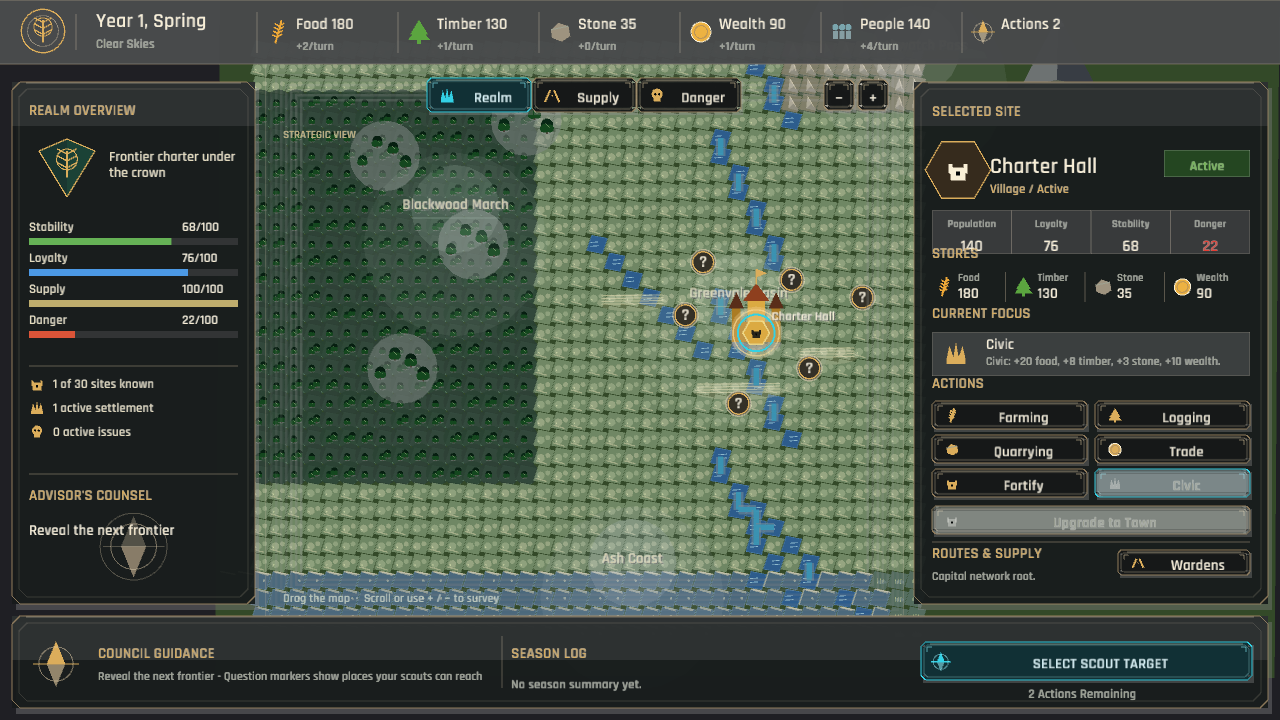
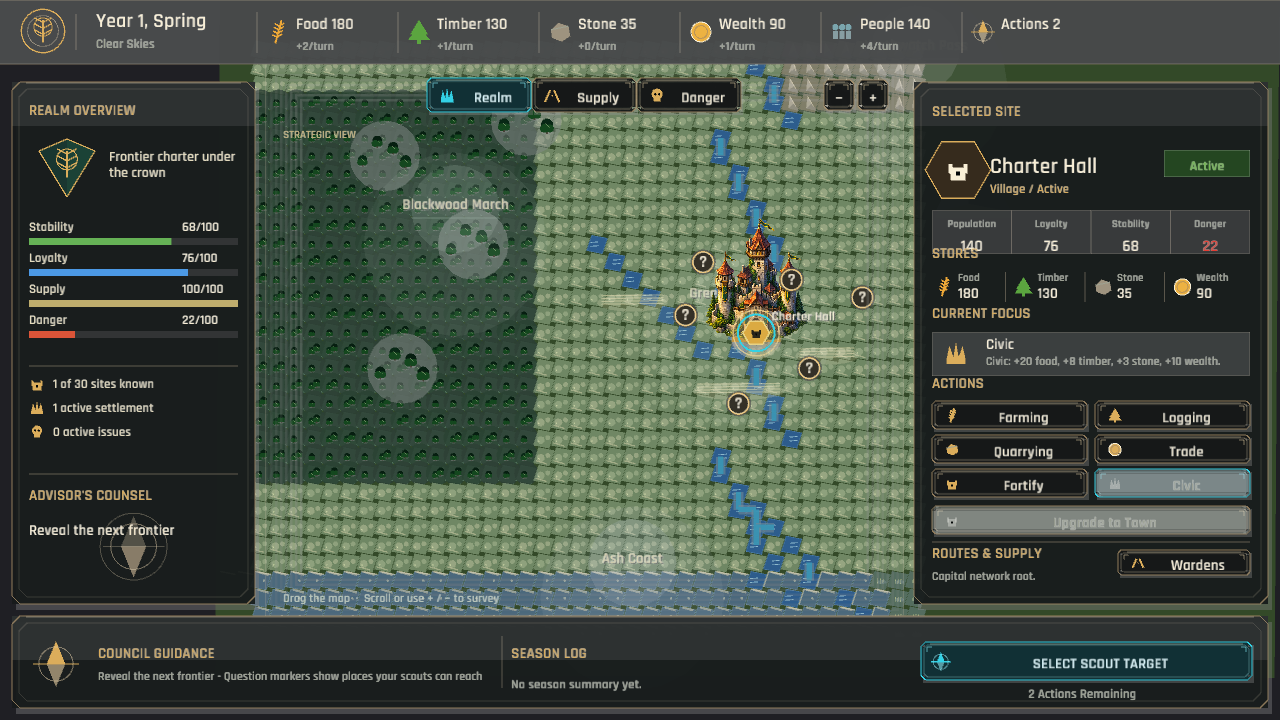
The realm's landmarks rise above the charter roads (GDD 6 overworld sprite integration)
The map had readable terrain but its settlements and points of interest still read as small procedural symbols. Four transparent landmark sprites now give the capital keep, frontier village, ruin watchtower, and crystal outcrop distinct silhouettes at the close strategic scale.

The textures are registered through the shared asset manifest, layered over the existing procedural foundations, and given enlarged hit regions so the art improves both recognition and touch selection. The capture-only sprite showcase reveals the full site set for visual verification without changing a fresh campaign's discovery rules.

Verified with cargo test (27 passed), git diff --check, the Rust source-size test, capture_ui.ps1 for gameplay and sprite_showcase, and publish.ps1 through Windows/WebGL packaging and Preview deployment.

diff --git a/src/ui/map_site_sprites.rs b/src/ui/map_site_sprites.rs
@@ -1,0 +1,77 @@
+//! Textured landmark sprites layered over the strategic map silhouettes.
+
+use super::map_sites::MarkerKind;
+use super::{MapSpriteTextures, UiContext};
+use crate::data::SiteDef;
+use macroquad::prelude::*;
+
+#[derive(Clone, Copy)]
+struct SpriteSpec<'a> {
+    texture: &'a Texture2D,
+    width: f32,
+    height: f32,
+    anchor: f32,
+}
+
+pub(super) fn draw_site_sprite(
+    ctx: &UiContext<'_>,
+    site: &SiteDef,
+    kind: MarkerKind,
+    position: Vec2,
+    scale: f32,
+) -> bool {
+    let Some(spec) = sprite_spec(&ctx.sprites, site, kind) else {
+        return false;
+    };
+
+    let width = spec.width * scale;
+    let height = spec.height * scale;
+    draw_texture_ex(
+        spec.texture,
+        position.x - width * 0.5,
+        position.y + 7.0 * scale - height * spec.anchor,
+        WHITE,
+        DrawTextureParams {
+            dest_size: Some(vec2(width, height)),
+            ..Default::default()
+        },
+    );
+    true
+}
+
+pub(super) fn hit_radius(
+    textures: &MapSpriteTextures<'_>,
+    site: &SiteDef,
+    kind: MarkerKind,
+    scale: f32,
+    marker_radius: f32,
+) -> f32 {
+    let Some(spec) = sprite_spec(textures, site, kind) else {
+        return marker_radius * scale + 9.0;
+    };
+    (spec.width.max(spec.height) * scale * 0.42).max(marker_radius * scale) + 10.0
+}
+
+fn sprite_spec<'a>(
+    textures: &MapSpriteTextures<'a>,
+    site: &SiteDef,
+    kind: MarkerKind,
+) -> Option<SpriteSpec<'a>> {
+    let (texture, width, height, anchor) = match kind {
+        MarkerKind::Capital => (textures.capital?, 112.0, 122.0, 0.92),
+        MarkerKind::PlayerSettlement | MarkerKind::Settlement | MarkerKind::Independent => {
+            (textures.village?, 96.0, 88.0, 0.92)
+        }
+        MarkerKind::Landmark if site.site_type == "ruin" => (textures.ruin?, 88.0, 102.0, 0.93),
+        MarkerKind::Landmark if site.site_type == "resource" => {
+            (textures.resource?, 92.0, 86.0, 0.92)
+        }
+        _ => return None,
+    };
+    Some(SpriteSpec {
+        texture,
+        width,
+        height,
+        anchor,
+    })
+}

diff --git a/src/game.rs b/src/game.rs
@@ -1,9 +1,10 @@
 //! High-level game loop, state transitions, and toolkit integration.
 
 use crate::data::GameData;
-use crate::state::{migrate_save_value, GameSession, SaveData};
+use crate::state::{migrate_save_value, GameSession, SaveData, SiteKnowledge};
 use crate::ui::{
-    self, ExitWarningTarget, MapOverlay, MenuContext, PauseMenuContext, UiAction, UiContext,
+    self, ExitWarningTarget, MapOverlay, MapSpriteTextures, MenuContext, PauseMenuContext,
+    UiAction, UiContext,
 };
 use macroquad::prelude::*;
 use macroquad_toolkit::assets::AssetManager;
@@ -114,6 +115,13 @@ impl Game {
                 self.session = GameSession::new(&self.data);
                 self.screen = GameScreen::PauseMenu;
             }
+            "sprite_showcase" => {
+                self.session = GameSession::new(&self.data);
+                for state in &mut self.session.site_states {
+                    state.knowledge = SiteKnowledge::Known;
+                }
+                self.screen = GameScreen::Playing;
+            }
             _ => {
                 // Default: gameplay. Start a fresh campaign so this works on a
                 // fresh save with no prior state.
@@ -208,6 +216,12 @@ impl Game {
                 let ctx = UiContext {
                     data: &self.data,
                     session: &self.session,
+                    sprites: MapSpriteTextures {
+                        capital: self.assets.get_texture("capital_keep"),
+                        village: self.assets.get_texture("village_cluster"),
+                        ruin: self.assets.get_texture("ruin_watchtower"),
+                        resource: self.assets.get_texture("crystal_outcrop"),
+                    },
                     camera_target: self.camera.target,
                     camera_zoom: self.camera.zoom,
                     map_overlay: self.map_overlay,

diff --git a/src/ui/map_sites.rs b/src/ui/map_sites.rs
@@ -1,7 +1,7 @@
 //! Site markers, map labels, and picking for the strategic map.
 
 use super::map::MapView;
-use super::{style, MapOverlay, UiContext};
+use super::{map_site_sprites, style, MapOverlay, UiContext};
 use crate::data::{SettlementTier, SiteCategory, SiteDef};
 use crate::state::{SettlementRuntimeState, SettlementStatus};
 use macroquad::prelude::*;
@@ -29,8 +29,15 @@ pub(super) fn picked_site_id(ctx: &UiContext<'_>, view: &MapView, mouse: Vec2) -
             return None;
         }
         let position = view.site_position(site);
-        let radius =
-            marker_radius(site, ctx.session.settlement_at_site(&site.id)) * view.scale() + 9.0;
+        let settlement = ctx.session.settlement_at_site(&site.id);
+        let kind = marker_kind(ctx, site, settlement);
+        let radius = map_site_sprites::hit_radius(
+            &ctx.sprites,
+            site,
+            kind,
+            view.scale(),
+            marker_radius(site, settlement),
+        );
         (position.distance(mouse) <= radius).then(|| site.id.clone())
     })
 }
@@ -48,6 +55,7 @@ fn draw_known_site(ctx: &UiContext<'_>, view: &MapView, site: &SiteDef) {
     let kind = marker_kind(ctx, site, settlement);
 
     draw_landmark_silhouette(site, kind, position, scale, fill);
+    map_site_sprites::draw_site_sprite(ctx, site, kind, position, scale);
     draw_circle(
         position.x,
         position.y,
@@ -521,7 +529,7 @@ fn draw_ruined_marker(ground: Vec2, scale: f32, fill: Color) {
 }
 
 #[derive(Debug, Clone, Copy)]
-enum MarkerKind {
+pub(super) enum MarkerKind {
     Capital,
     PlayerSettlement,
     Rival,

diff --git a/src/ui.rs b/src/ui.rs
@@ -6,6 +6,7 @@ mod endgame;
 mod event;
 mod faction;
 mod map;
+mod map_site_sprites;
 mod map_sites;
 mod map_terrain;
 mod menu;
@@ -88,6 +89,7 @@ impl MapOverlay {
 pub struct UiContext<'a> {
     pub data: &'a GameData,
     pub session: &'a GameSession,
+    pub sprites: MapSpriteTextures<'a>,
     pub camera_target: Vec2,
     pub camera_zoom: f32,
     pub map_overlay: MapOverlay,
@@ -95,6 +97,13 @@ pub struct UiContext<'a> {
     pub show_factions: bool,
     pub input_blocked: bool,
     pub ui: &'a VirtualUi,
+}
+
+pub struct MapSpriteTextures<'a> {
+    pub capital: Option<&'a Texture2D>,
+    pub village: Option<&'a Texture2D>,
+    pub ruin: Option<&'a Texture2D>,
+    pub resource: Option<&'a Texture2D>,
 }
 
 pub struct MenuContext<'a> {
